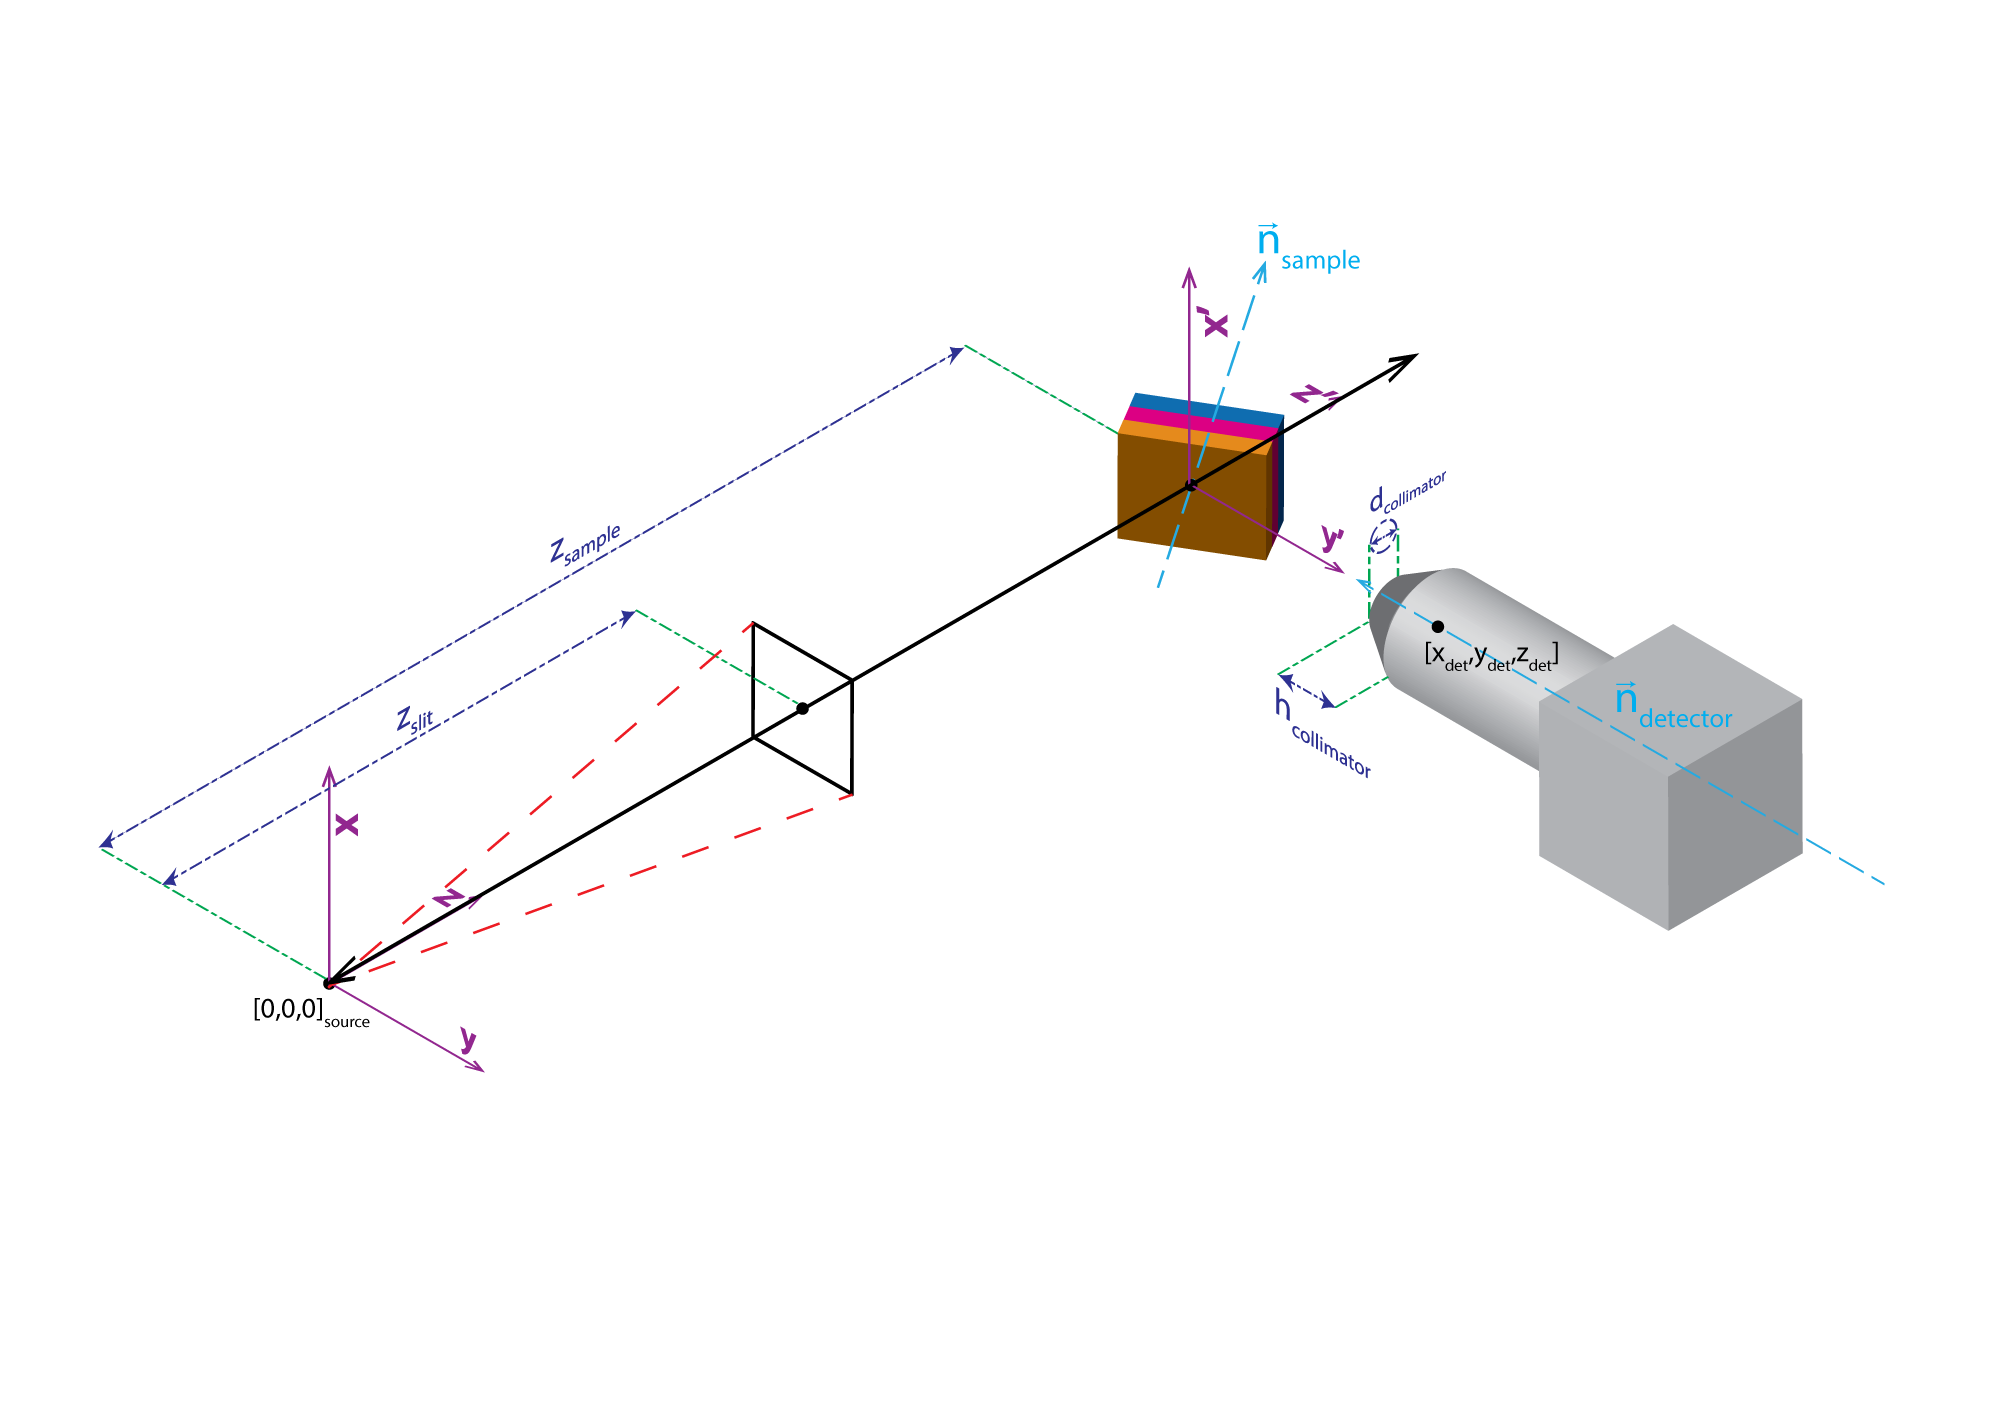
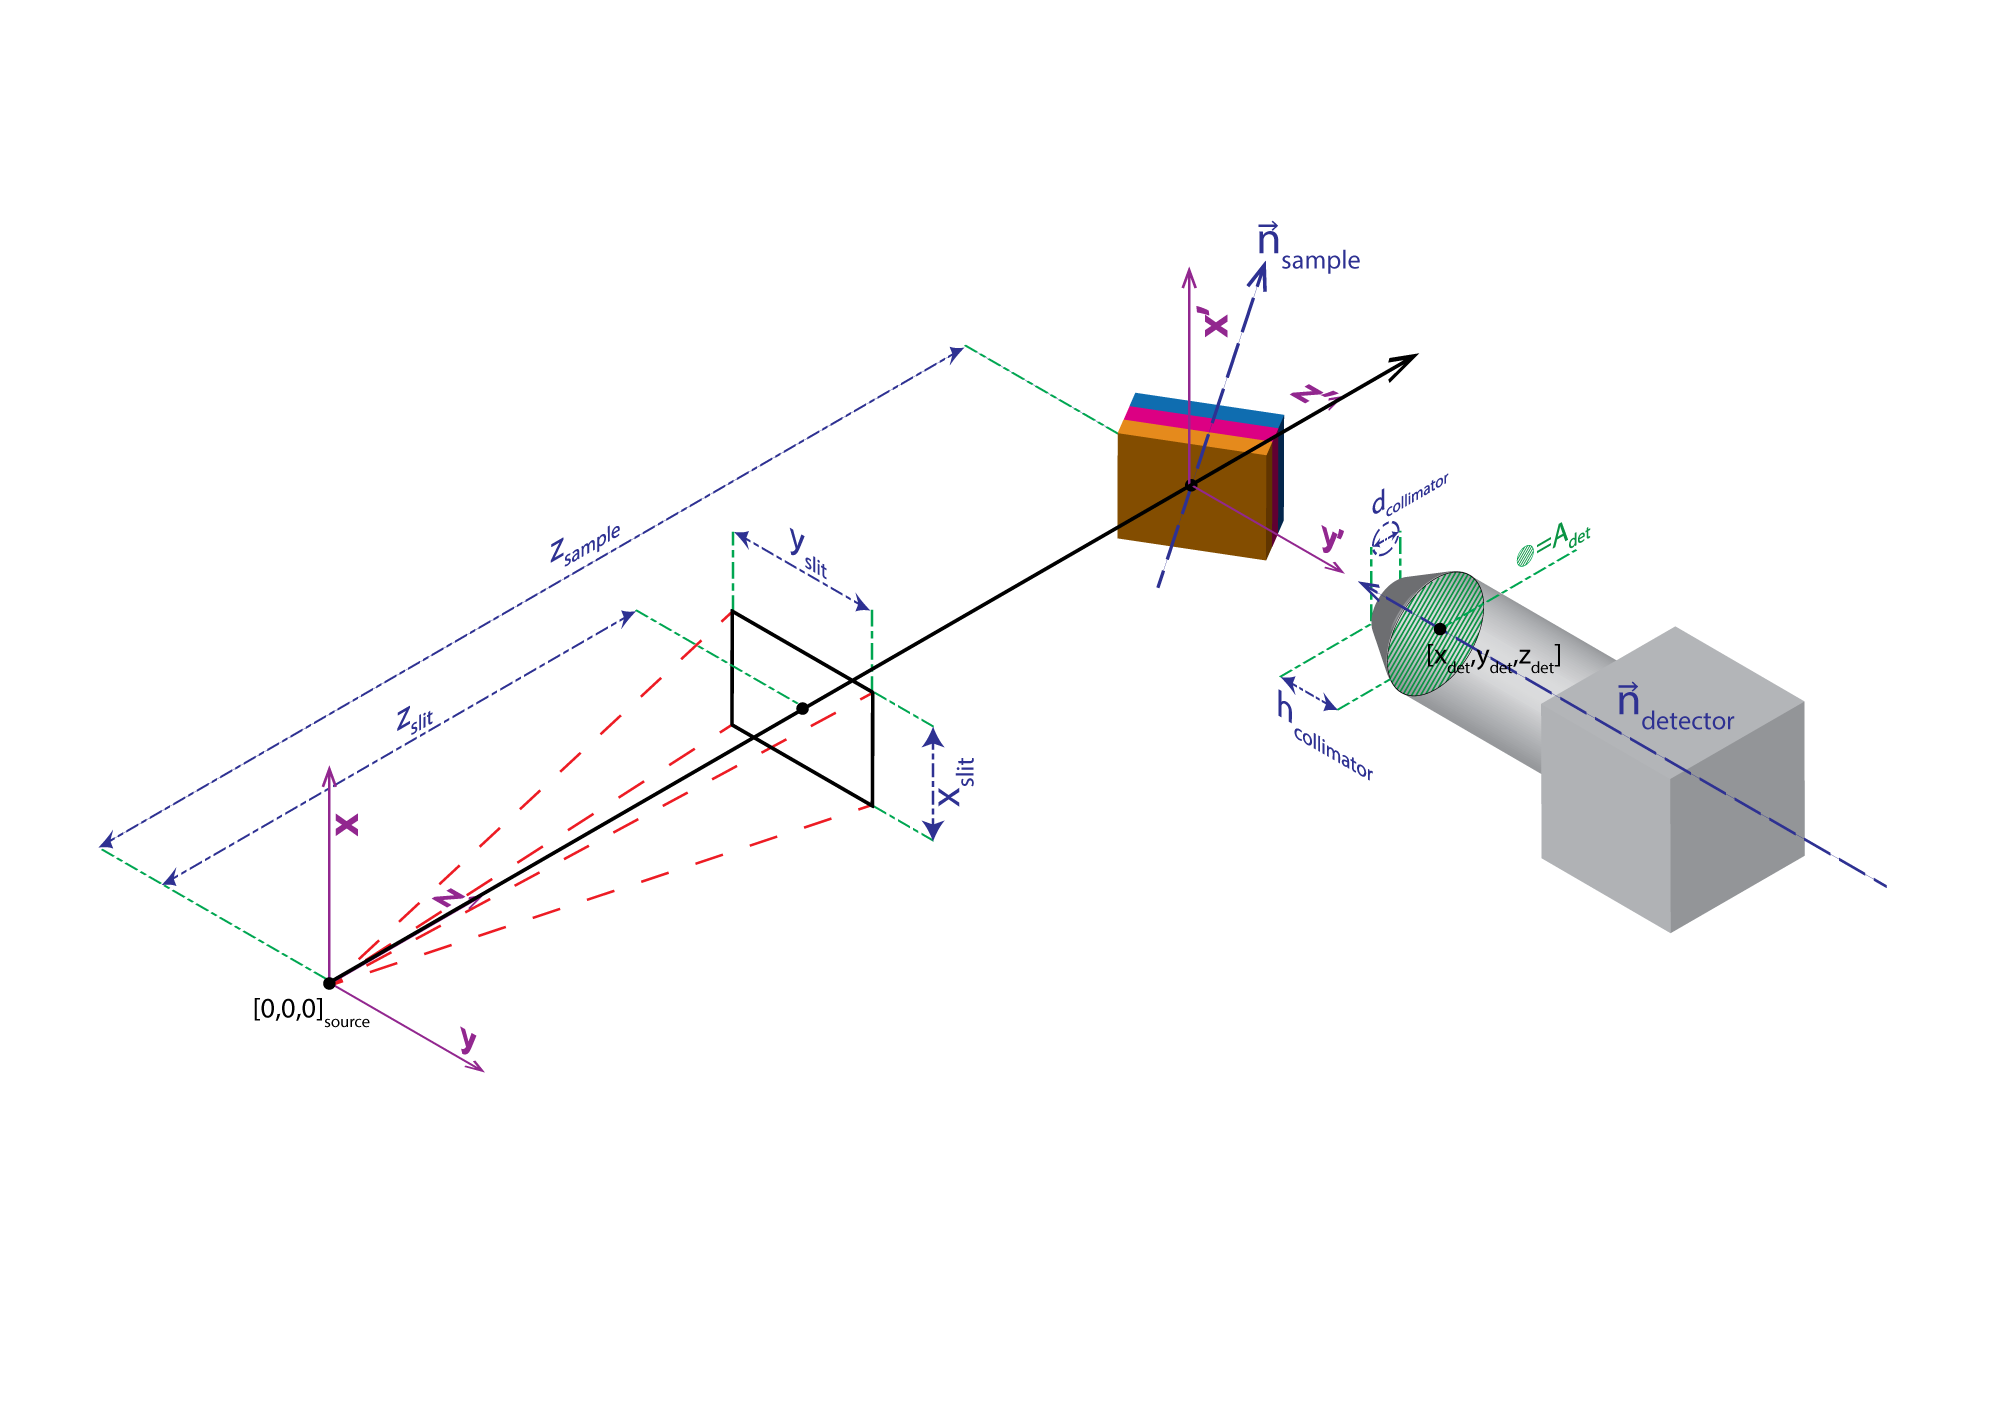
added Jan's definitive excellent coordinate system
determined all coordinates
now write the necessary code...

diff --git a/bin/xmimsim-gui.c b/bin/xmimsim-gui.c
@@ -6176,9 +6176,14 @@ static void change_all_values_detectorsettings(struct xmi_input *new_input) {
 static double geometry_help_scale_factor = GEOMETRY_HELP_SCALE_FACTOR_DEFAULT;
 
 static double sample_source_distance_coords[2][2] = {{530, 498}, {652, 584}};
-static double sample_orientation_coords[2][2] = {{530, 498}, {652, 584}};
-static double detector_window_position_coords[2][2] = {{530, 498}, {652, 584}};
-static double detector_window_normal_coords[2][2] = {{530, 498}, {652, 584}};
+static double sample_orientation_coords[2][2] = {{1232, 200}, {1385, 290}};
+static double detector_window_position_coords[2][2] = {{1417, 592}, {1565, 655}};
+static double detector_window_normal_coords[2][2] = {{1604, 663}, {1744, 725}};
+static double active_detector_area_coords[2][2] = {{1505, 497}, {1607, 564}};
+static double collimator_height_coords[2][2] = {{1263, 647}, {1386, 761}};
+static double collimator_diameter_coords[2][2] = {{1358, 450}, {1460, 540}};
+static double source_slits_coords[2][2] = {{374, 671}, {445, 720}};
+static double slits_size_coords[2][2] = {{706, 510}, {981, 846}};
 
 
 static gboolean cs_window_delete_event(void) {
